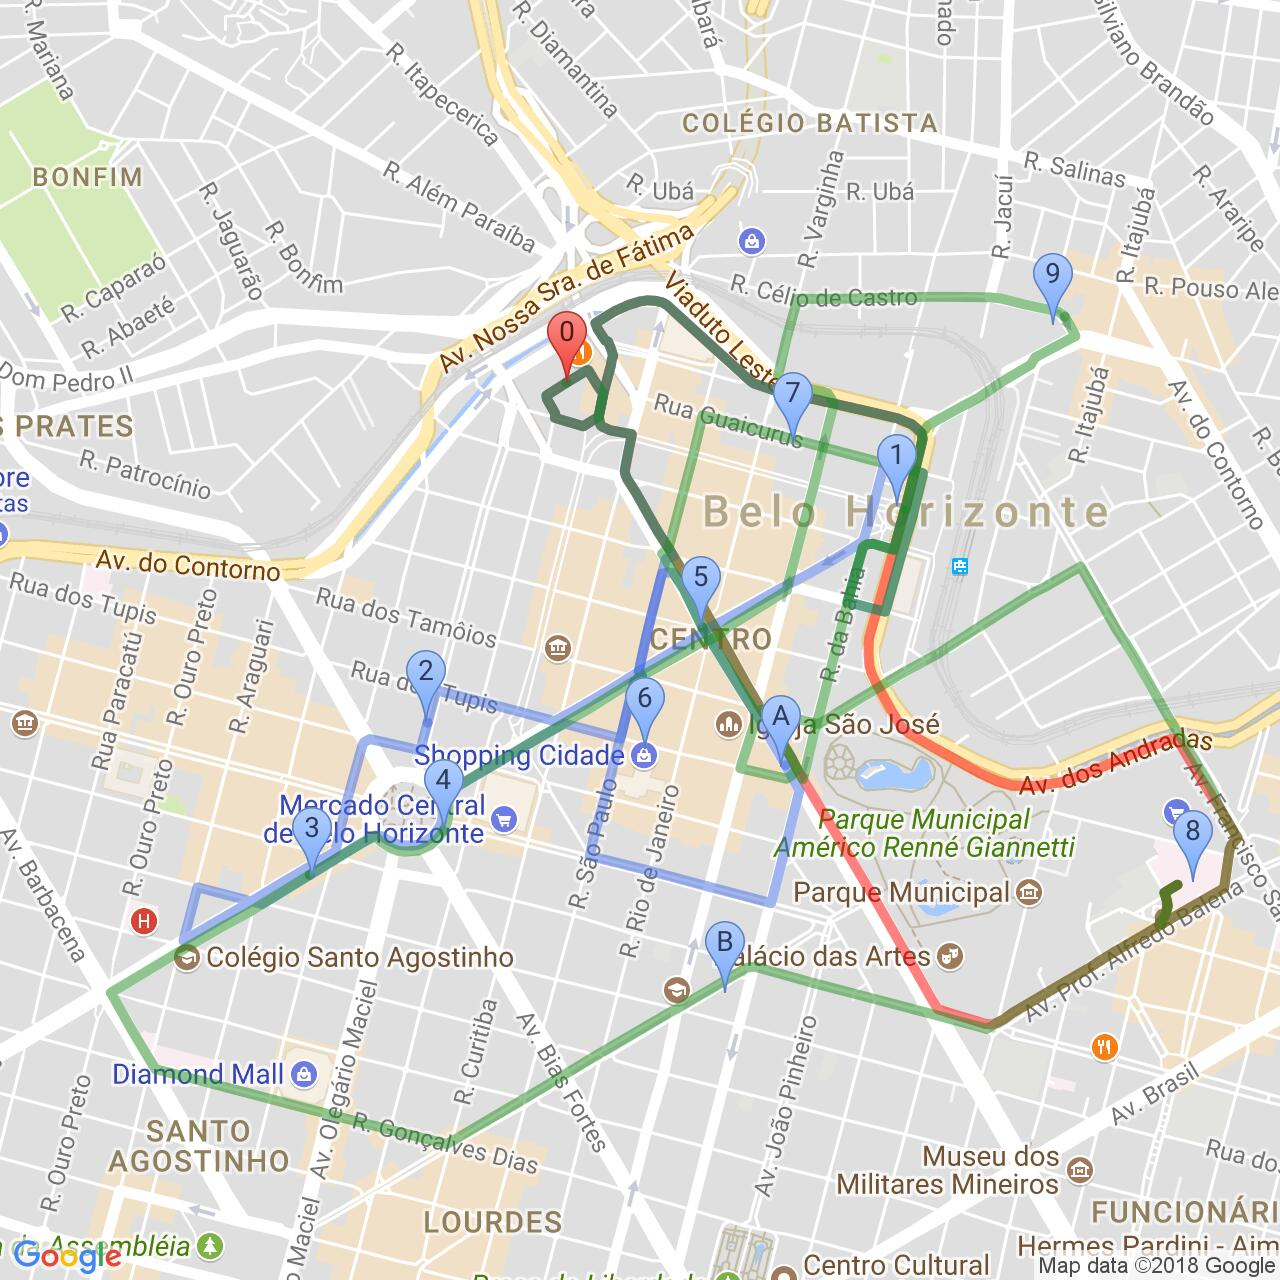
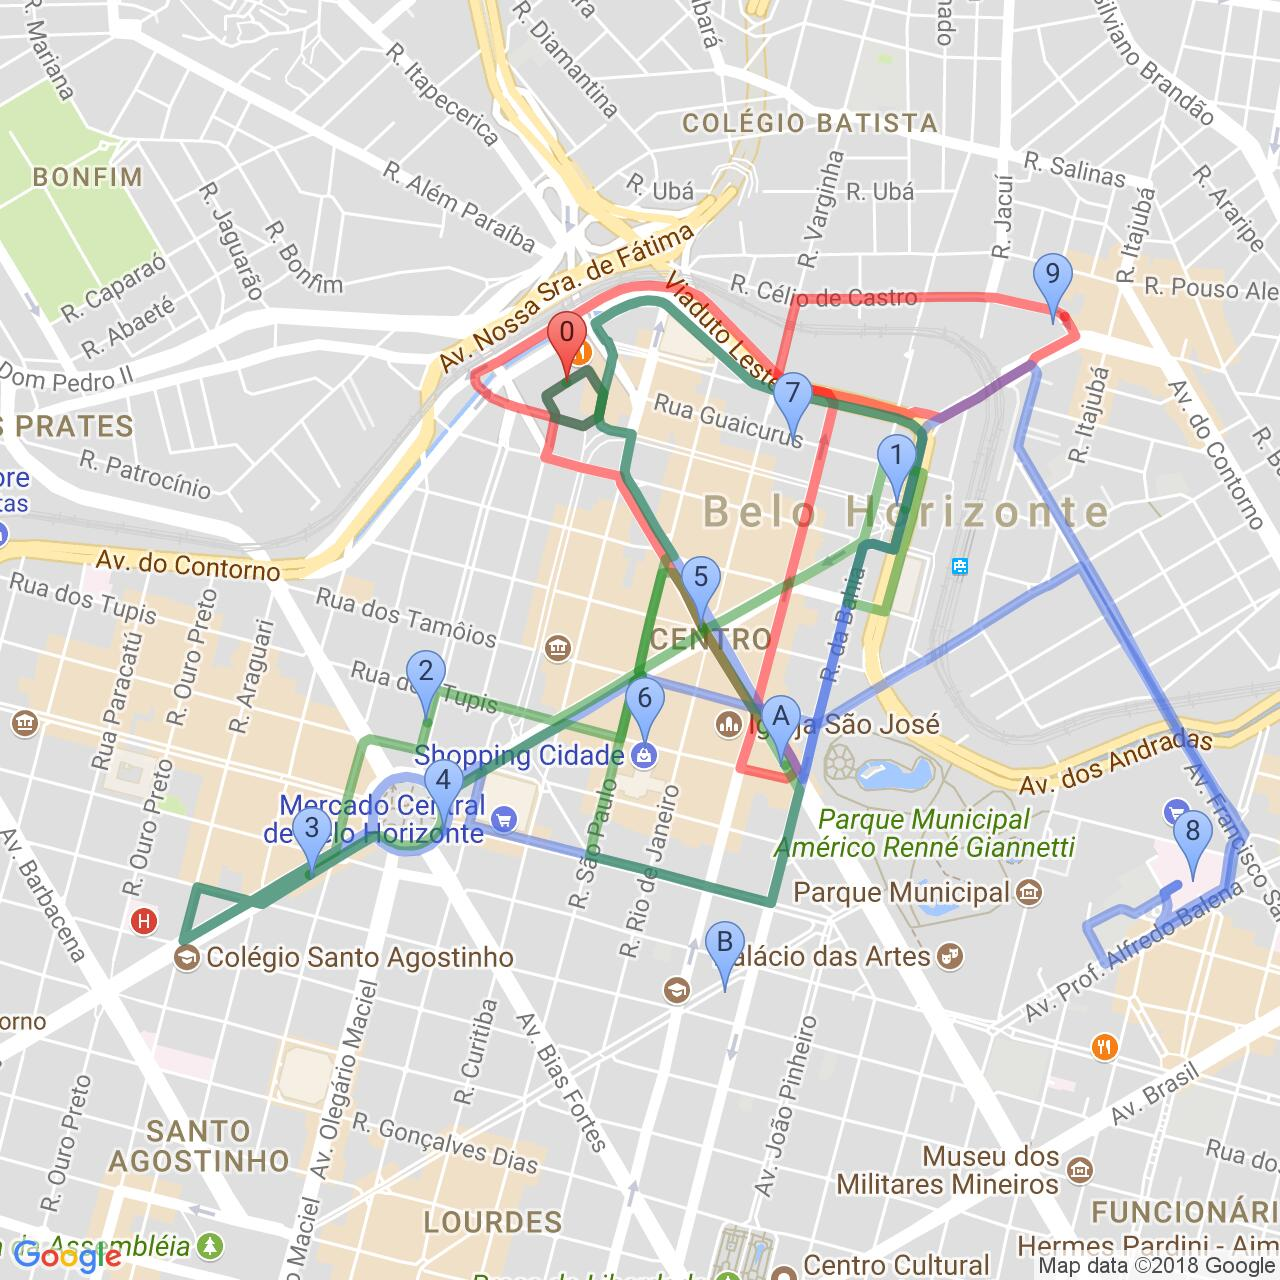
- NOVO ERRO: função de construção gulosa perde algumas solicitações em instâncias maiores, de 200 e 250 requests - implementação do algoritmo VND - exception de tempo inválido corrigida - falta implementar o algoritmo de pós-otimização
- falta testar e achar onde esta o erro da repetição de solicitações em rotas distintas
- falta separar tipos de busca local: melhor vizinho e primeiro melhor -> todos estão juntos na mesma lista

diff --git a/src/test/java/VRPDRTSD/VRPDRTSD_buildGreedySolutionTest.java b/src/test/java/VRPDRTSD/VRPDRTSD_buildGreedySolutionTest.java
@@ -5,31 +5,26 @@
  */
 package VRPDRTSD;
 
-import junit.framework.Assert;
-import static org.junit.Assert.assertNotNull;
-import org.junit.Test;
+import org.junit.*;
 
 /**
  *
  * @author renansantos
  */
-public class VRPDRTSD_LocalSearchHeuristics {
+public class VRPDRTSD_buildGreedySolutionTest {
 
     @Test
-    public void VND_Test() {
-        String instanceName = "r250n12tw10";
+    public void greedySolutionTest() {
+        int numberOfRequests = 250;
+        String instanceName = "r" + numberOfRequests + "n12tw10";
         String nodesData = "bh_n12s";
         String adjacenciesData = "bh_adj_n12s";
         int numberOfVehicles = 50;
         int vehicleCapacity = 4;
         System.out.println("Testing Metaheuristics");
         VRPDRTSD problem = new VRPDRTSD(instanceName, nodesData, adjacenciesData, numberOfVehicles, vehicleCapacity);
-        problem.VND();
-//        problem.buildGreedySolution();
-//        problem.getSolution().printAllInformations();
-//        problem.localSearch(4);
-        problem.getSolution().printAllInformations();
-        assertNotNull(problem.getSolution());
+        problem.buildGreedySolution();
+        //problem.getSolution().printAllInformations();
+        Assert.assertEquals(numberOfRequests, problem.getData().getRequests().size());
     }
-
 }

diff --git a/src/main/java/VRPDRTSD/Main.java b/src/main/java/VRPDRTSD/Main.java
@@ -27,7 +27,7 @@ public class Main {
         problem.getSolution().getStaticMapWithAllRoutes(problem.getData().getNodes(), adjacenciesData, nodesData);
 //        problem.localSearch(2);
 //        problem.getSolution().printAllInformations();
-        problem.localSearch(8);
+        problem.VND();
         problem.getSolution().printAllInformations();
         problem.getSolution().getStaticMapWithAllRoutes(problem.getData().getNodes(), adjacenciesData, nodesData);
     }
